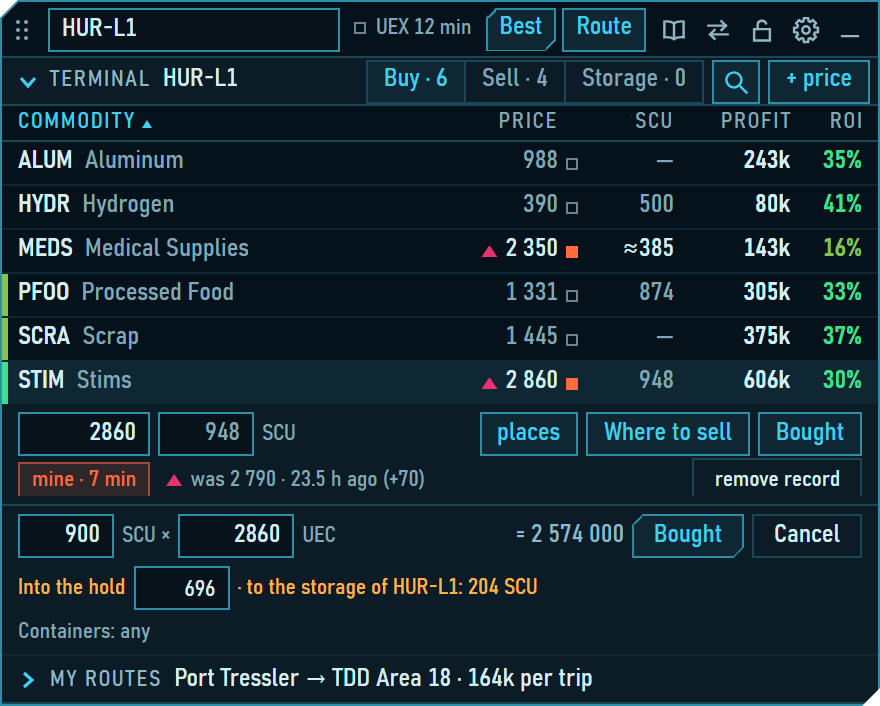
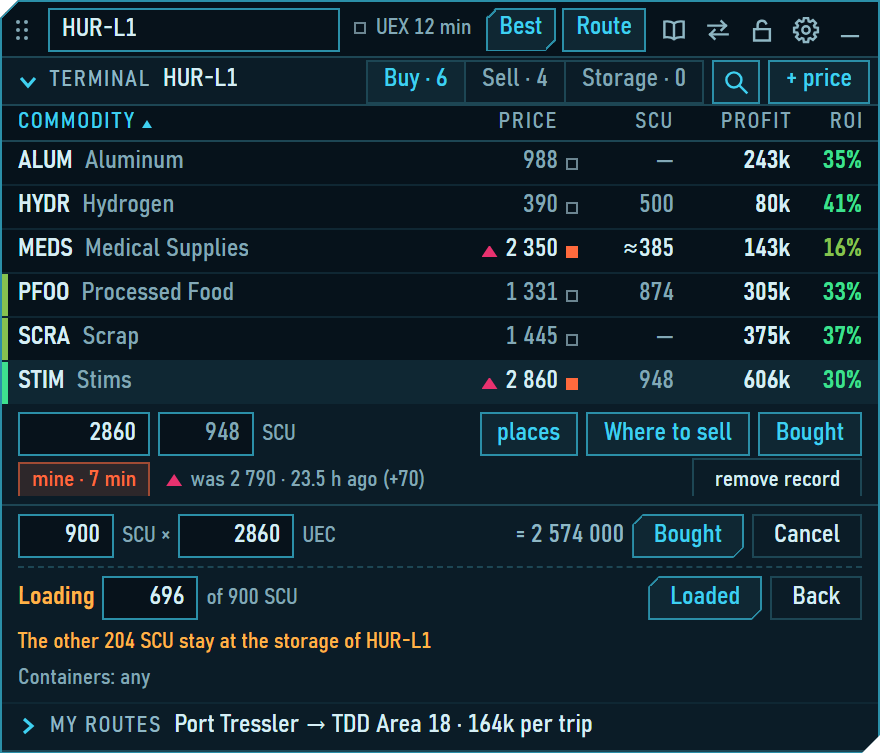
feat: 1.4.1 — a purchase over the hold goes on to the step «Погрузка [N] из M SCU»
The author: «я купил 912, а он не загрузил … давай после покупки отдельный этап погрузка SCU — из максимума корабля, а то неудобно». The number of the hold typed into the form itself (1.4.0) was easy to get wrong, and a wrong one made «Купил» write nothing. Now «Купил» of a purchase above the free space opens a second step under the fields: how much went into the hold (the free space of the ship by default), «Погрузил» writes the purchase with the rest left at the storage of the place, «Назад» returns to the quantity and the price; a purchase that fits is written at once, as before; the price of UEX is asked about first. «проверь цифру» stays under the fields. Scenes, guides, spec and the picture of the site follow.

Changed region(s): [[0.0, 0.0, 1.0, 0.966], [0.0, 0.9348, 0.9818, 1.0], [0.7057, 0.2493, 0.767, 0.4363]]

diff --git a/src/ui/components/TradeDialog.svelte b/src/ui/components/TradeDialog.svelte
@@ -1,5 +1,5 @@
 <script lang="ts">
-  import { untrack } from 'svelte';
+  import { tick, untrack } from 'svelte';
   import { formatUec } from '../../core/format';
   import { parseScu } from '../../core/input';
   import type { Side } from '../../core/types';
@@ -97,28 +97,26 @@
   let checkShown = $state(false);
   let priceInput = $state<HTMLInputElement | null>();
 
-  // A purchase over the free space of the hold (version 1.4): the rest is left at the storage of the place. The number that goes into the
-  // hold is the free space until the player types his own (he may load less, or nothing at all).
-  const typedScu = $derived.by(() => {
-    const scu = parseScu(scuText);
-    return scu === null || scu === 0 ? null : scu;
-  });
+  // A purchase over the free space of the hold (version 1.4.1, the author: «после покупки отдельный этап: погрузка SCU — из максимума
+  // корабля»; a number of the hold typed into the form itself was easy to get wrong, and then «Купил» wrote nothing). «Купил» of such a
+  // purchase goes on to the step «Погрузка»: how much went into the hold, the free space of the ship unless the player says less; the
+  // rest is left at the storage of the place. A purchase that fits is written at once, as always.
+  let loading = $state<{ scu: number; price: number } | null>(null);
   let holdText = $state('');
-  let holdTouched = $state(false);
-  const splits = $derived(side === 'buy' && free !== null && typedScu !== null && (typedScu > free || holdTouched));
-  const holdDefault = $derived(typedScu === null || free === null ? 0 : Math.max(0, Math.min(typedScu, free)));
-  const hold = $derived.by(() => {
-    if (!splits) return typedScu;
-    if (!holdTouched) return holdDefault;
-    return parseScu(holdText);
+  let holdInput = $state<HTMLInputElement | null>();
+  const hold = $derived(loading === null ? null : parseScu(holdText));
+  const badHold = $derived(loading !== null && (hold === null || hold > loading.scu || (free !== null && hold > free)));
+  const stored = $derived(loading !== null && hold !== null && !badHold ? loading.scu - hold : 0);
+  const overHold = (scu: number): boolean => side === 'buy' && free !== null && scu > free;
+  // a purchase above the stock the seller is known to have is probably a typo (5120 for 512): said under the fields, before anything is written
+  const aboveStock = $derived.by(() => {
+    const scu = parseScu(scuText);
+    return side === 'buy' && scu !== null && stockScu !== null && scu > stockScu;
   });
-  const stored = $derived(splits && typedScu !== null && hold !== null ? typedScu - hold : 0);
-  const badHold = $derived(splits && (hold === null || typedScu === null || hold > typedScu || (free !== null && hold > free)));
-  const aboveStock = $derived(splits && typedScu !== null && stockScu !== null && typedScu > stockScu);
 
   const stepFor = (scu: number) => confirmStep({
     priceIsOwn: defaultPriceIsOwn || defaultPrice === null, priceTouched, asked: priceAsked,
-    fits: splits ? !badHold : maxScu === null || scu <= maxScu,
+    fits: overHold(scu) || maxScu === null || scu <= maxScu,
   });
   // The next press on the button of the form asks about the price. For the keyboard the button is then one that opens an entry
   // (ui/keyboard.ts): the press on it brings the keyboard to the window, and the cursor goes into the price.
@@ -130,6 +128,14 @@
   function submit(e: SubmitEvent & { currentTarget: HTMLFormElement }): void {
     e.preventDefault();
     if (confirmed) return;
+    if (loading !== null) {
+      // the step «Погрузка»: the line under it says what is wrong with the number of the hold
+      if (badHold || hold === null) return;
+      const toStorage = loading.scu - hold;
+      confirmed = true;
+      onConfirm(toStorage > 0 ? { ...loading, toStorage } : { ...loading });
+      return;
+    }
     const trade = resolveTrade(scuText, priceText);
     if (!trade.ok) {
       // the same refusal again (a held Enter) is one refusal: typing clears the marks, so a new one is a new report
@@ -152,10 +158,18 @@
       }
       return;
     }
-    if (splits && badHold) return; // the line of the storage says what is wrong with the number of the hold
     checkShown = false;
+    if (overHold(trade.scu)) {
+      loading = { scu: trade.scu, price: trade.price };
+      holdText = String(Math.max(0, Math.min(trade.scu, free ?? 0)));
+      // Enter in a field: the keyboard is with the window, and the cursor goes into the number of the hold, selected
+      if (document.activeElement instanceof HTMLInputElement && e.currentTarget.contains(document.activeElement)) {
+        void tick().then(() => { holdInput?.focus(); holdInput?.select(); });
+      }
+      return;
+    }
     confirmed = true;
-    onConfirm(stored > 0 ? { scu: trade.scu, price: trade.price, toStorage: stored } : { scu: trade.scu, price: trade.price });
+    onConfirm({ scu: trade.scu, price: trade.price });
   }
 
   // Esc takes the form back and is left to go on: the window hands the keyboard back to the game (it never closes by Esc).
@@ -193,7 +207,7 @@
       placeholder="SCU"
       aria-invalid={badScu ? 'true' : undefined}
       value={scuText}
-      oninput={(e) => { scuText = e.currentTarget.value; badScu = false; confirmed = false; }}
+      oninput={(e) => { scuText = e.currentTarget.value; badScu = false; confirmed = false; loading = null; }}
       onkeydown={onKeydown}
     />
     {#if stockUnknown}<span class="unsure" role="img" aria-label={STOCK_UNKNOWN_NOTE()} title={STOCK_UNKNOWN_NOTE()}>?</span>{/if}
@@ -212,7 +226,7 @@
       placeholder="UEC"
       aria-invalid={badPrice ? 'true' : undefined}
       value={priceText}
-      oninput={(e) => { priceText = e.currentTarget.value; priceTouched = true; checkShown = false; badPrice = false; confirmed = false; }}
+      oninput={(e) => { priceText = e.currentTarget.value; priceTouched = true; checkShown = false; badPrice = false; confirmed = false; loading = null; }}
       onkeydown={onKeydown}
     />
     <span class="unit">UEC</span>
@@ -226,27 +240,36 @@
     >{side === 'buy' ? tr('Купил') : tr('Продал')}</button>
     <button type="button" class="sc-btn" title={tr('Не записывать (Esc)')} onclick={() => onCancel()}>{tr('Отмена')}</button>
   </div>
-  {#if splits}
-    <!-- version 1.4: bought over the hold, the rest is left at the storage of the place; the number of the hold may be changed -->
-    <p class="split" class:above={aboveStock}>
-      <span>{tr('В трюм')}</span>
+  {#if aboveStock && loading === null}<p class="hint check">{tr('Больше, чем запас станции ({stock} SCU) — проверь цифру', { stock: stockScu ?? 0 })}</p>{/if}
+  {#if loading !== null}
+    <!-- version 1.4.1: the step «Погрузка» of a purchase over the hold: how much went into the hold, the rest is left at the storage -->
+    <div class="load" role="group" aria-label={tr('Погрузка')}>
+      <span class="caption">{tr('Погрузка')}</span>
       <input
+        bind:this={holdInput}
         class="sc-input sc-num in-hold"
         type="text"
         inputmode="numeric"
         autocomplete="off"
         data-select-on-focus
+        data-entry-field="trade-hold"
         aria-label={tr('Сколько погрузить в трюм, SCU')}
         title={tr('Сколько погрузить в трюм, SCU: остальное останется на складе')}
         aria-invalid={badHold ? 'true' : undefined}
-        value={holdTouched ? holdText : String(holdDefault)}
-        oninput={(e) => { holdText = e.currentTarget.value; holdTouched = true; confirmed = false; }}
+        value={holdText}
+        oninput={(e) => { holdText = e.currentTarget.value; confirmed = false; }}
         onkeydown={onKeydown}
       />
-      <span class="sc-num">· {tr('на склад {place}: {scu} SCU', { place: storagePlace, scu: Math.max(0, stored) })}</span>
-    </p>
-    {#if badHold}<p class="hint bad">{tr('В трюм — от нуля до свободного места ({free} SCU) и не больше купленного', { free: free ?? 0 })}</p>{/if}
-    {#if aboveStock}<p class="hint check">{tr('Больше, чем запас станции ({stock} SCU) — проверь цифру', { stock: stockScu ?? 0 })}</p>{/if}
+      <span class="unit">{tr('из {scu} SCU', { scu: loading.scu })}</span>
+      <span class="spacer"></span>
+      <button type="submit" class="sc-btn sc-btn--primary" title={tr('Записать покупку: это в трюм, остальное на склад (Enter)')} onclick={onSubmitClick}>{tr('Погрузил')}</button>
+      <button type="button" class="sc-btn" title={tr('Вернуться к количеству и цене')} onclick={() => (loading = null)}>{tr('Назад')}</button>
+    </div>
+    {#if badHold}
+      <p class="hint bad">{tr('В трюм — от нуля до свободного места ({free} SCU) и не больше купленного', { free: free ?? 0 })}</p>
+    {:else if stored > 0}
+      <p class="hint split">{tr('Остальное {scu} SCU останется на складе {place}', { scu: stored, place: storagePlace })}</p>
+    {/if}
   {/if}
   {#if note}
     <p class="hint note">{note}{#if noteAction}<button type="button" class="link" title={noteAction.title} onclick={() => noteAction?.run()}>{noteAction.label}</button>{/if}</p>
@@ -336,20 +359,30 @@
     color: var(--sc-bad);
   }
 
-  /* bought over the hold (version 1.4): how much goes into the hold, and what the storage of the place keeps; in the colour of a
-     caution, so that a typo (5120 for 512) does not go to the storage unseen */
-  .split {
+  /* the step «Погрузка» of a purchase over the hold (version 1.4.1): the number of the hold, and what the storage of the place keeps,
+     in the colour of a caution */
+  .load {
     display: flex;
     align-items: center;
     gap: 4px;
-    margin: 4px 0 0;
-    color: var(--sc-warn);
-    font-size: var(--sc-font-sm);
+    min-height: var(--sc-ctl-h);
+    margin-top: 4px;
+    padding-top: 4px;
+    border-top: 1px dashed var(--sc-border);
     white-space: nowrap;
   }
 
-  .split.above {
-    color: var(--sc-bad);
+  .load .caption {
+    color: var(--sc-warn);
+    font-weight: 600;
+  }
+
+  .spacer {
+    flex: 1;
+  }
+
+  .split {
+    color: var(--sc-warn);
   }
 
   .in-hold {

diff --git a/src/i18n/en.ts b/src/i18n/en.ts
@@ -834,10 +834,8 @@ export const EN: Readonly<Record<string, string>> = {
   'Нужно целое число SCU от 1': 'A whole number of SCU from 1 is needed',
   'Количество — целое от нуля, цена больше нуля': 'The quantity is a whole number from zero, the price above zero',
   'Здесь на складе лежит твой груз: «Погрузил» — на вкладке «Склад» терминала': 'Your cargo lies at the storage here: "Loaded" is on the "Storage" tab of the terminal',
-  'В трюм': 'Into the hold',
   'Сколько погрузить в трюм, SCU': 'How much goes into the hold, SCU',
   'Сколько погрузить в трюм, SCU: остальное останется на складе': 'How much goes into the hold, SCU: the rest stays at the storage',
-  'на склад {place}: {scu} SCU': 'to the storage of {place}: {scu} SCU',
   'В трюм — от нуля до свободного места ({free} SCU) и не больше купленного': 'Into the hold: from zero up to the free space ({free} SCU), and no more than bought',
   'Больше, чем запас станции ({stock} SCU) — проверь цифру': 'More than the stock of the station ({stock} SCU): check the number',
   'Твой склад на этой станции: что ты купил сверх трюма и оставил здесь': 'Your storage at this station: what you bought over your hold and left here',
@@ -869,4 +867,8 @@ export const EN: Readonly<Record<string, string>> = {
   'Количество — от нуля, цена больше нуля': 'The quantity from zero, the price above zero',
   'Возврат на склад не исправляется: поправь склад': 'A putting back into the storage is not corrected: correct the storage',
   'Цена погрузки — цена закупки на складе, её не исправить': 'The price of a load is the purchase price at the storage and cannot be corrected',
+  // version 1.4.1: the step «Погрузка» of a purchase over the hold
+  'Записать покупку: это в трюм, остальное на склад (Enter)': 'Write the purchase: this into the hold, the rest to the storage (Enter)',
+  'Вернуться к количеству и цене': 'Back to the quantity and the price',
+  'Остальное {scu} SCU останется на складе {place}': 'The other {scu} SCU stay at the storage of {place}',
 };

diff --git a/src/preview/scenes-storage.ts b/src/preview/scenes-storage.ts
@@ -42,7 +42,7 @@ async function overTheHold(app: SceneApp, intoHold = 696): Promise<void> {
 export const STORAGE_SCENES: readonly Scene[] = [
   {
     name: 'storage-buy-split',
-    title: 'Склад: «Купил» 900 при трюме 696 — строка «В трюм 696 · на склад HUR-L1: 204 SCU»',
+    title: 'Склад: «Купил» 900 при трюме 696 — шаг «Погрузка 696 из 900 SCU», остальное 204 SCU на склад HUR-L1',
     dataset: 'default',
     act: async (app) => {
       await app.expand('preview');
@@ -52,7 +52,10 @@ export const STORAGE_SCENES: readonly Scene[] = [
       await press('[data-tour-open="STIM"] [data-tour="trade"]');
       type('form.trade .in-scu', '900');
       await pause(200);
-      if (document.querySelector('form.trade .split') === null) throw new Error('the form shows no line of the storage for a purchase over the hold');
+      await press('form.trade button[type="submit"]');
+      await pause(200);
+      const hold = document.querySelector<HTMLInputElement>('form.trade .load .in-hold');
+      if (hold === null || hold.value !== '696') throw new Error(`a purchase over the hold goes on to no step «Погрузка» with the free space: ${hold?.value}`);
     },
   },
   {
@@ -71,6 +74,7 @@ export const STORAGE_SCENES: readonly Scene[] = [
       type('form.trade .in-price', '2860');
       await pause(200);
       await press('form.trade button[type="submit"]');
+      await press('form.trade .load button[type="submit"]');
       await pause(800);
       const row = app.terminalRows.find((r) => r.commodityId === stim(app));
       if (row?.buy?.ownScu !== 48) throw new Error(`after buying 900 of 948 the station shows ${row?.buy?.ownScu ?? row?.buy?.hintScu} instead of 48 of mine`);

diff --git a/src/preview/scenes-keyboard.ts b/src/preview/scenes-keyboard.ts
@@ -906,13 +906,11 @@ export const KEYBOARD_SCENES: readonly Scene[] = [
     // the price. With the quantity put right the form asks, and the confirmation after that writes.
     name: 'trade-check-price-hold',
     // version 1.4: more than the hold is no refusal any more, the rest goes to the storage of the place; the price of UEX is asked about all the same
-    title: '«Купил» с ценой UEX и количеством больше трюма: строка «В трюм 696 · на склад …: 4 SCU», первое подтверждение спрашивает о цене',
+    title: '«Купил» с ценой UEX и количеством больше трюма: первое подтверждение спрашивает о цене, погрузка — после него',
     dataset: 'default',
     act: async (app) => {
       await openForeignPurchase(app);
       typeInto('form.trade .in-scu', '700');
-      await pause(100);
-      if (document.querySelector('form.trade .split') === null) throw new Error('a purchase over the hold shows no line of the storage');
       await confirmTrade();
       expectForm('with more than the hold takes', { asks: true, written: 0, error: null });
     },

diff --git a/README.md b/README.md
@@ -71,7 +71,7 @@ Hover the words "Worst", "Time", "rate learned" / "default rate", "Min–max", e
 - **Price freshness** — a price of your own is hot, warm, cooling, then cold (thresholds in Settings → Price freshness); while it is not cold it counts instead of the UEX one. "Changed server" marks all your prices up to now as cold, after a confirmation.
 - **Options** — where to haul from here, or where to buy for a terminal: price, time, profit, ROI; sorted by profit or by ROI. "better deal" also offers a purchase at another terminal nearby when the trip pays more (limit: Settings → Route calculation → "Buy nearby: empty flight up to, min"); its target then has two steps — the purchase first, the sale after. An opened option says how much to take ("Take"), the cost, the profit, the worst case, the time and a containers line ("Containers: any" / "Containers: up to 8 SCU"); if your ship cannot load at a terminal, the option says why.
 - **Trip** — the first purchase starts it: a timer, the cargo, the expected profit at the target. "Departed" and "Arrived" mark its phases (loading, flight, unloading); "Sold" of the last cargo closes it ("Cargo lost" closes it as lost, after a confirmation). With a commodity of the hold and a price of yours at the terminal you look at, the section compares "Here" with "Fly on": the price elsewhere, the gain against selling here and the time to fly. When the price you type in is clearly worse than expected (Settings → "Say when the price is worse by, %"), the window says so and "Where else?" opens the reference for your cargo. A trade typed wrong can be corrected: "Correct a trade".
-- **Storage** — buy more than your hold takes and leave the rest at the station for another trip. Type the whole purchase in "Bought": a line under the fields says "Into the hold 696 · to the storage of HUR-L1: 304 SCU" (the hold number can be changed); the station's stock goes down by the whole purchase, the trip invests only what it carries. The third tab of the terminal, "Storage", lists what lies at that station with what it cost: "Where to haul" looks for the best place to carry it to (the profit counts from its purchase price), "Loaded" takes it into the hold and starts the next trip, "Correct" and "Write off" put a wrong line right (a write-off is a loss of the session). Forgot "Loaded"? "Sold" elsewhere offers "From the storage of HUR-L1" by itself. The mini line says "storage 304 STIM" while you stand at that station, and the crate with a number in the header lists every storage. Goods at a storage cannot be sold there, only carried on. "Cargo lost" with one commodity aboard asks how much was really aboard; the rest goes back to the storage it came from. After "Arrived", a new target elsewhere starts the cycle again: "Departed", "Arrived".
+- **Storage** — buy more than your hold takes and leave the rest at the station for another trip. Type the whole purchase in "Bought": when it is more than the free space, "Bought" goes on to a second step, "Loading [696] of 1000 SCU" (the free space of the ship by default; change it if you loaded less), and "Loaded" writes it, the rest left at the storage; a purchase that fits is written at once. The station's stock goes down by the whole purchase, even when only UEX knew it, the trip invests only what it carries. The third tab of the terminal, "Storage", lists what lies at that station with what it cost: "Where to haul" looks for the best place to carry it to (the profit counts from its purchase price), "Loaded" takes it into the hold and starts the next trip, "Correct" and "Write off" put a wrong line right (a write-off is a loss of the session). Forgot "Loaded"? "Sold" elsewhere offers "From the storage of HUR-L1" by itself. The mini line says "storage 304 STIM" while you stand at that station, and the crate with a number in the header lists every storage. Goods at a storage cannot be sold there, only carried on. "Cargo lost" with one commodity aboard asks how much was really aboard; the rest goes back to the storage it came from. After "Arrived", a new target elsewhere starts the cycle again: "Departed", "Arrived".
 - **Commodity reference** — the book in the header (or its key): the ten best places to buy or to sell a commodity, with price, stock, freshness and source; "my system" and "in stock" narrow the list.
 - **My routes** — your finished trips: "Routes" (the rating: profit per trip, trips, time), "History", "Sessions" and "Records" (your price records: correct or remove one). A star makes a route a favourite: the window tells you, with a sound if you like (Settings → "Sound of favourite routes"), when the estimated stock at its purchase terminal has grown to a full hold. "Detailed calculations" (Settings → Route calculation, off by default) adds "At low" to the "Here" / "Fly on" comparison — the gain if the other place pays the bottom of its range — and counts lost trips in My routes: the trips column shows the successful ones out of all attempts ("5/6"), and the profit includes the losses.
 

diff --git a/README.ru.md b/README.ru.md
@@ -148,7 +148,7 @@
 
 ### Склад на станции
 
-- Купить больше, чем входит в трюм, и оставить остаток на станции на вторую ходку. В «Купил» впиши всю покупку: если она больше свободного места, под полями появится строка «В трюм 696 · на склад HUR-L1: 304 SCU». Число «в трюм» можно поправить (погрузил меньше или ничего). Запас станции уменьшается на всю покупку, а рейс считает вложением только то, что везёт. Если число больше известного запаса станции, строка скажет «проверь цифру»: опечатку 5120 вместо 512 видно сразу.
+- Купить больше, чем входит в трюм, и оставить остаток на станции на вторую ходку. В «Купил» впиши всю покупку и цену: если покупка больше свободного места, «Купил» откроет второй шаг — «Погрузка [696] из 1000 SCU» (по умолчанию свободное место корабля; погрузил меньше или ничего — поправь) — и «Погрузил» запишет её, остальное останется на складе станции. Запас станции уменьшается на всю покупку, а рейс считает вложением только то, что везёт. Если число больше известного запаса станции, под полями будет «проверь цифру»: опечатку 5120 вместо 512 видно сразу. Покупка, которая влезает в трюм целиком, записывается сразу, без второго шага. После покупки в строке остаётся «было минус купленное», даже если запас был только по UEX.
 - Третья вкладка таблицы терминала — «Склад · N»: что лежит на складе этой станции (у всех её терминалов один склад), сколько и по какой цене куплено, сколько лежит. Строка раскрывается, как строка рынка:
   - «Куда везти» ищет лучшее место для этого груза заново, не обязательно то, куда вёз в прошлый раз; прибыль считается от цены закупки, «Взять» — меньшее из трюма и остатка, бюджет не ограничивает (уже заплачено);
   - «Погрузил» перекладывает груз со склада в трюм по цене закупки: начинается (или продолжается) рейс, и вторая ходка — отдельный рейс того же маршрута со своей прибылью и временем;

diff --git a/docs/superpowers/specs/2026-10-06-sc-trade-overlay-design.md b/docs/superpowers/specs/2026-10-06-sc-trade-overlay-design.md
@@ -1625,7 +1625,7 @@ Caddyfile ни разу не запускались на настоящем се
   `load` — «Погрузил», `late` — погрузка, записанная при продаже, `back` — возврат из трюма, `lost` — списано, `fix` —
   исправлено), рейс и событие рейса. Строка склада = сумма по паре «терминал × товар», цена — деньги / количество.
   Склад принадлежит месту: терминалы одной станции, аванпоста или города делят его (`placeKey`).
-- Покупка больше трюма: в форме «Купил» строка «В трюм N · на склад <станция>: M SCU», N можно поправить; дневник пишет
+- Покупка больше трюма: «Купил» открывает второй шаг «Погрузка [N] из M SCU» (N — свободное место корабля, можно поправить), «Погрузил» записывает (1.4.1; в 1.4.0 была строка «В трюм N · на склад …» прямо в форме, автор: «неудобно»); дневник пишет
   «было − вся покупка»; рейс вкладывает только то, что везёт; покупка целиком на склад рейса не начинает. Количество больше
   известного запаса станции — «проверь цифру».
 - Третья вкладка терминала «Склад · N»: «Куда везти» (варианты от цены закупки и остатка, бюджет не ограничивает,
